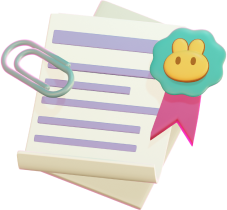
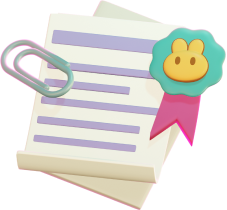
feat: Update slider image

diff --git a/apps/web/src/views/AffiliatesProgram/components/OnBoardingModal/StepIntro.tsx b/apps/web/src/views/AffiliatesProgram/components/OnBoardingModal/StepIntro.tsx
@@ -125,7 +125,13 @@ const StepIntro = () => {
           <SwiperSlide key={introStep.icon}>
             {isDesktop && (
               <Box width="226px" m="auto">
-                <Image src={introStep.icon} width={226} height={210} alt="" />
+                <Image
+                  alt={introStep.title.toString()}
+                  style={{ margin: 'auto', display: 'block' }}
+                  src={introStep.icon}
+                  width={130}
+                  height={130}
+                />
               </Box>
             )}
             <Box

diff --git a/apps/web/src/views/AffiliatesProgram/components/OnBoardingModal/index.tsx b/apps/web/src/views/AffiliatesProgram/components/OnBoardingModal/index.tsx
@@ -30,7 +30,8 @@ const OnBoardingModal = () => {
   const [currentView, setCurrentView] = useState(Views.STEP1)
 
   useEffect(() => {
-    if (isUserExist === false && router.query.ref) {
+    const { ref, user, discount } = router.query
+    if (isUserExist === false && ref && user && discount) {
       setIsOpen(true)
     }
   }, [isUserExist, router])
